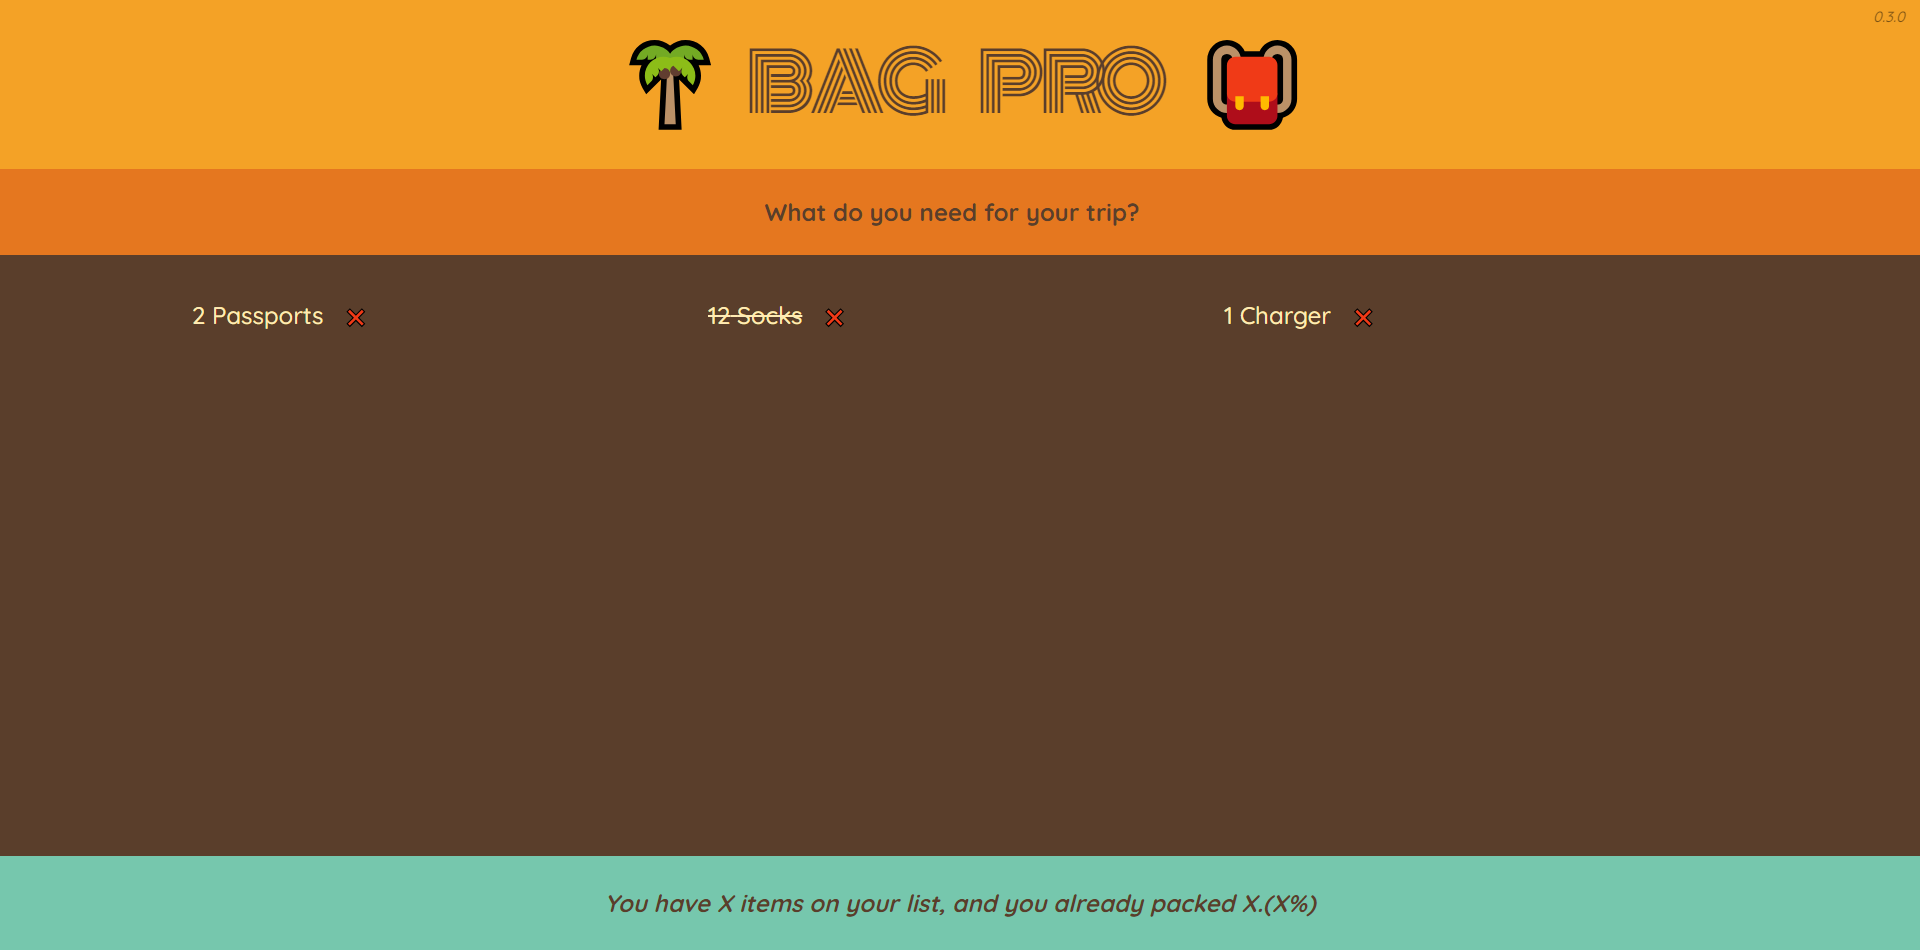
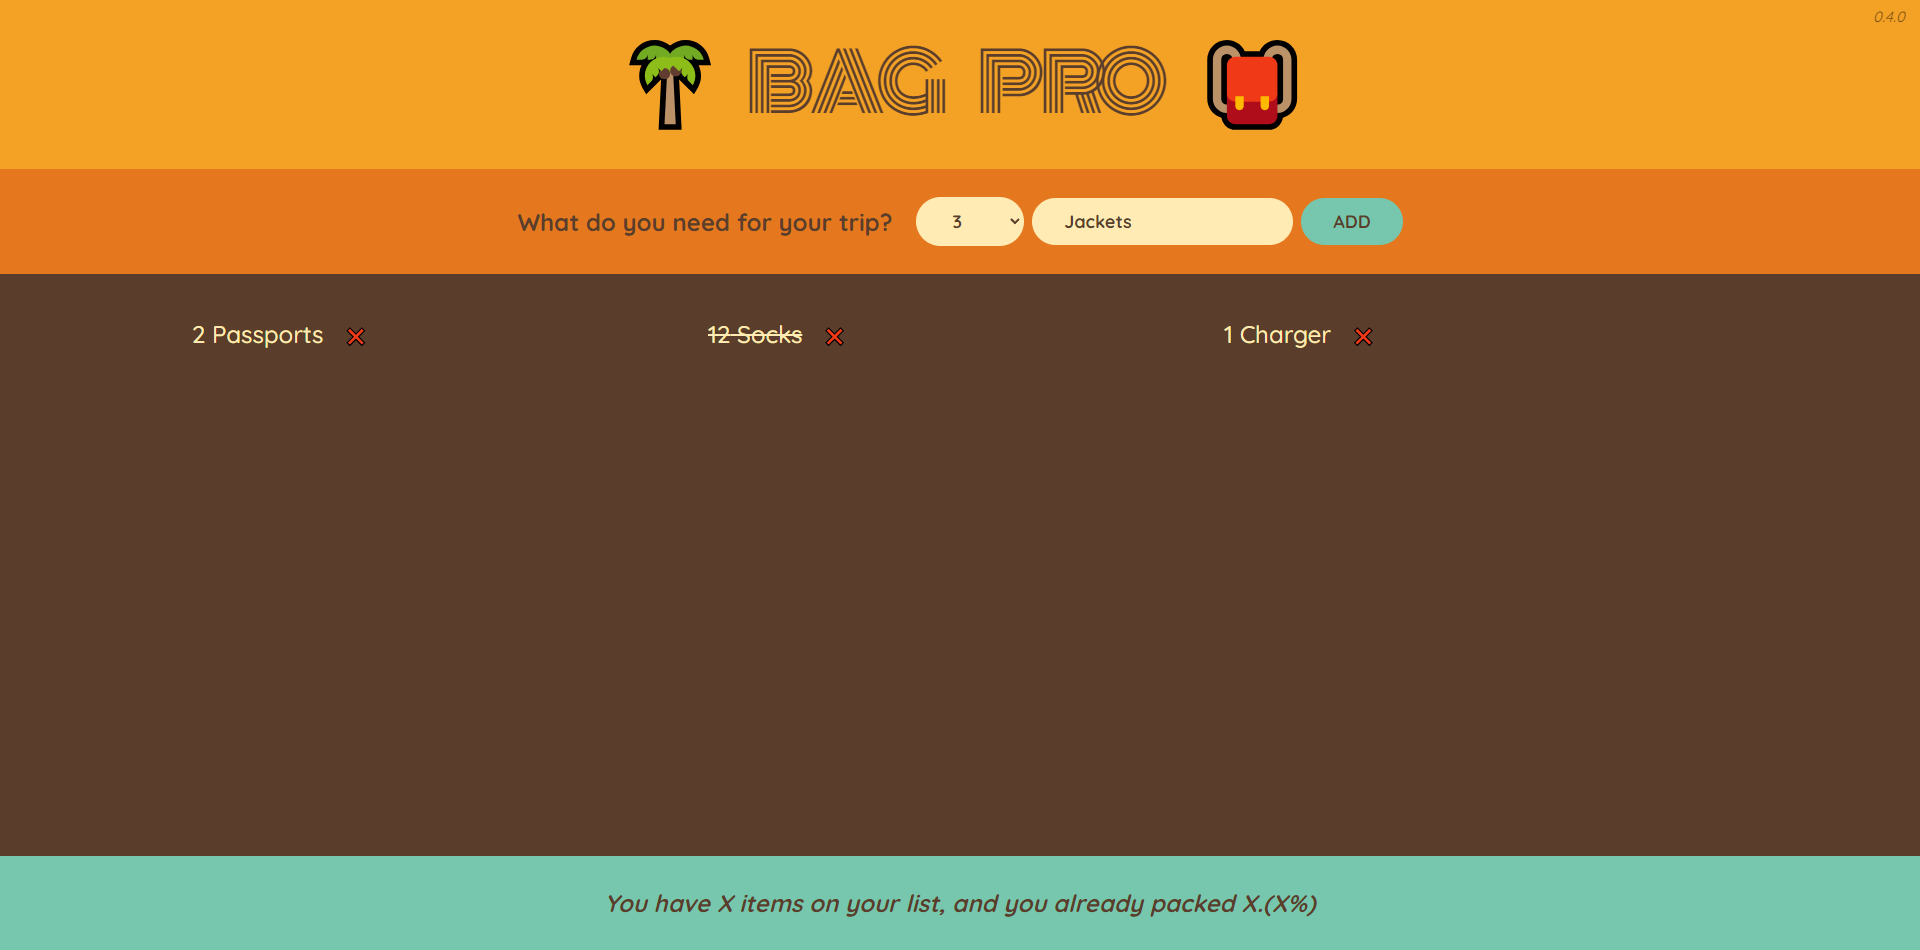
BAG PRO 0.4.0
Update App.js

Changed region(s): [[0.0, 0.1832, 1.0, 0.3663]]

diff --git a/src/App.js b/src/App.js
@@ -23,10 +23,20 @@ function Logo() {
 }
 
 function Form() {
+  function handleSubmit(e) {
+    e.preventDefault();
+    console.log(e);
+  }
+
   return (
-    <div className="add-form">
+    <form className="add-form" onSubmit={handleSubmit}>
       <h3>What do you need for your trip?</h3>
-    </div>
+      <select>
+        {Array.from({ length: 20 }, (_, i) => i + 1).map(num => (<option value={num} key={num}>{num}</option>))}
+      </select>
+      <input type="text" placeholder="Item..." />
+      <button>Add</button>
+    </form>
   )
 }
 
@@ -34,7 +44,7 @@ function PackingList() {
   return (
     <div className="list">
       <ul>
-        {initialItems.map(item => <Item item={item} />)}
+        {initialItems.map(item => <Item item={item} key={item.id} />)}
       </ul>
     </div>
   )

diff --git a/README.md b/README.md
@@ -10,7 +10,7 @@
 
 - **STACK :**
 
-  - **Bag Pro** : `0.3.0`
+  - **Bag Pro** : `0.4.0`
   - **React** : `18.3.1`
   - **React Dom** : `18.3.1`
 
